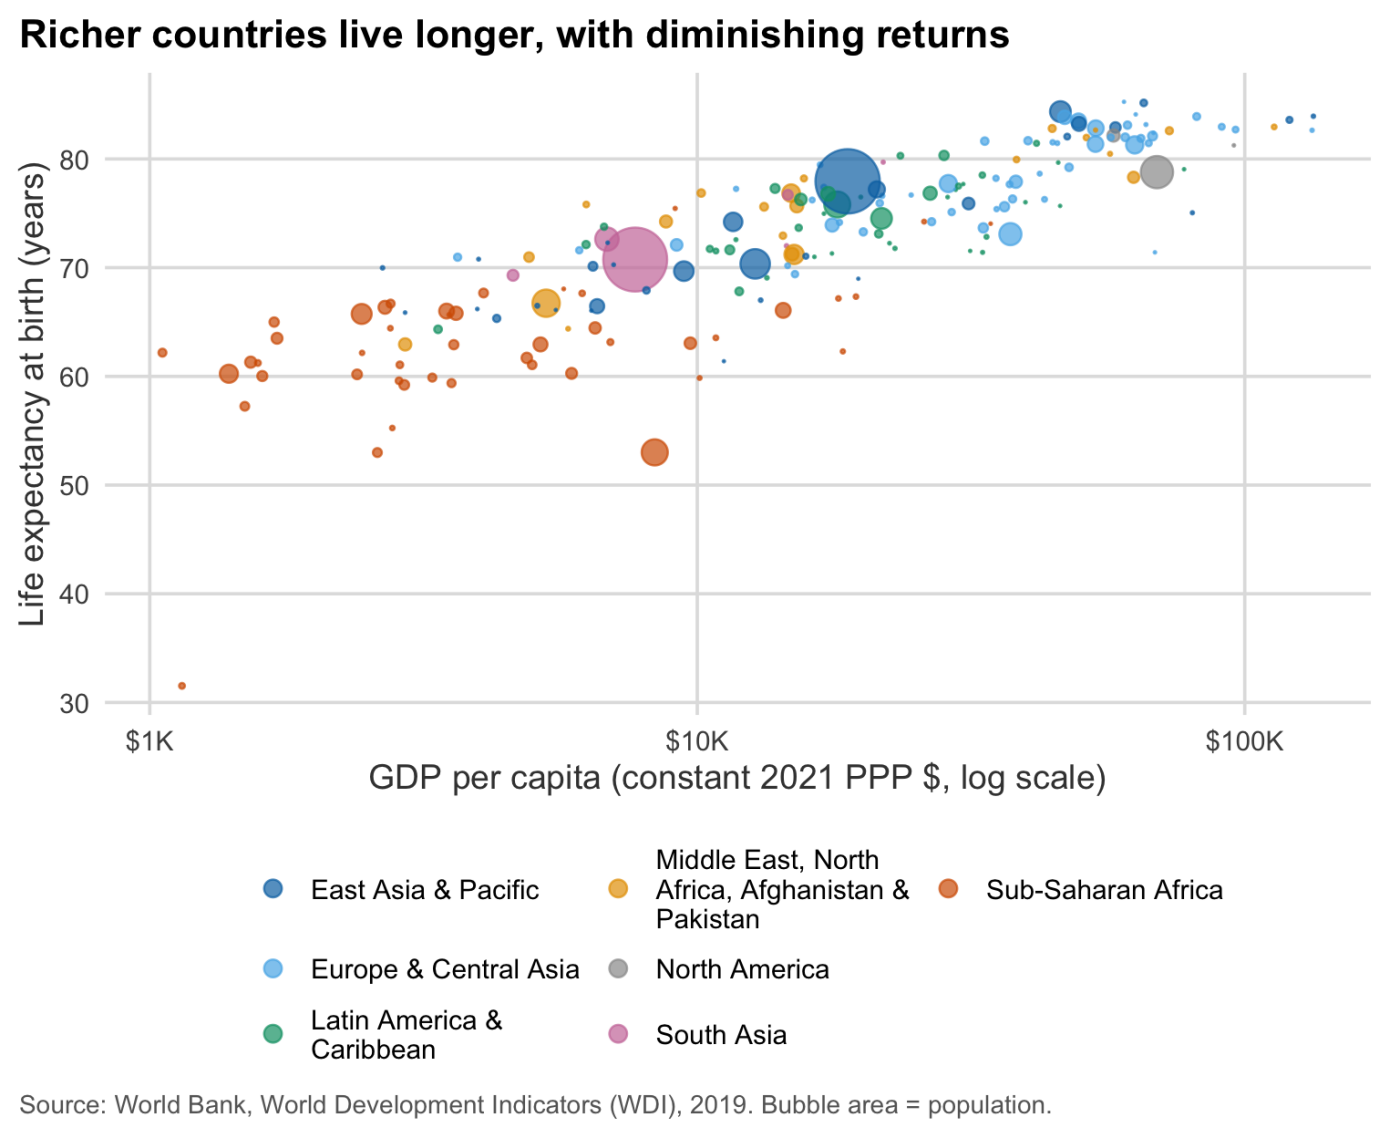
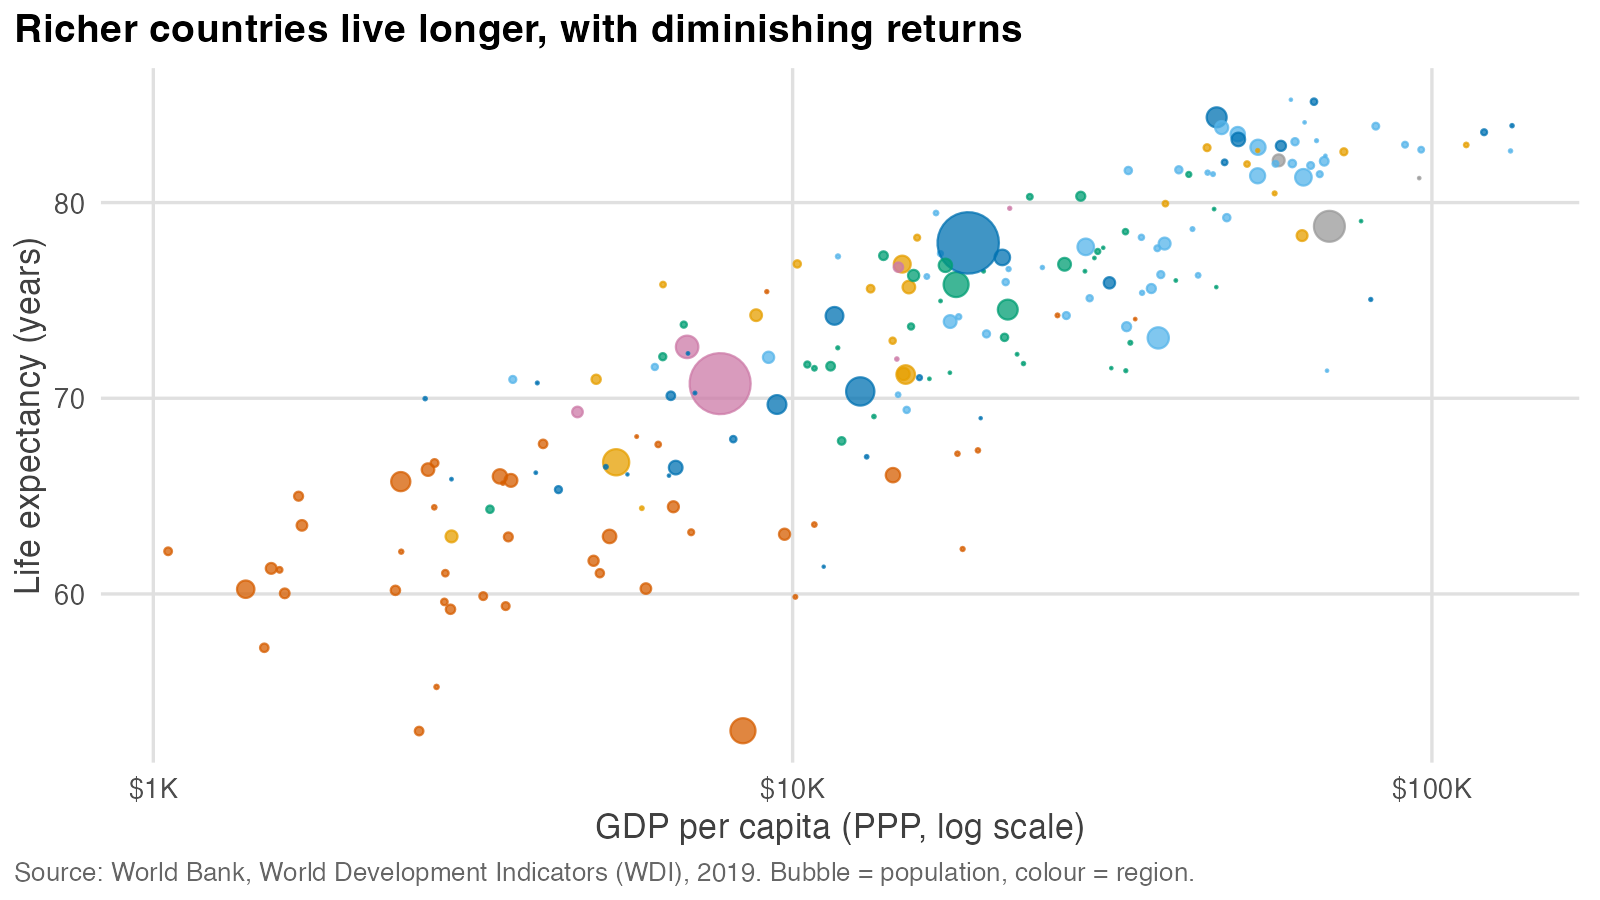
R course card: 16:9 featured chart (no legend) so the card crop shows the chart

diff --git a/content/course/r-for-beginners/index.md b/content/course/r-for-beginners/index.md
@@ -10,7 +10,7 @@ tags:
 external_link: "https://pierrebeaucoral.github.io/r-for-beginners/"
 image:
   caption: "Richer countries live longer, with diminishing returns (World Bank WDI, 2019): the figure students learn to build in Session 5."
-  focal_point: "Center"
+  focal_point: ""
 ---
 
 # R programming for beginners
